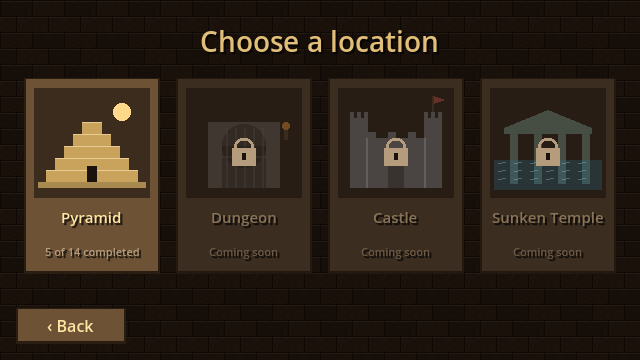
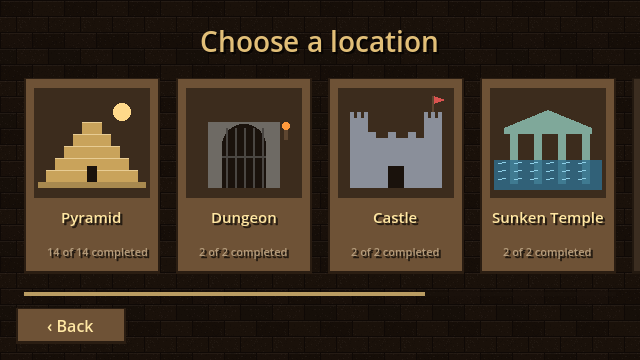
Locations: swipe-scrolled strip, add locked Ice Caves and Volcano
Claude-Session: https://claude.ai/code/session_01Grf5WdcuQYwuX1MMBXvSiC

diff --git a/README.md b/README.md
@@ -3,7 +3,7 @@
 Прототип по концепции из `docs/concept.md` и плану уровней `docs/levels-pyramid.md`.
 Пиксель-арт и звуки рисуются и синтезируются в коде, готовых ассетов нет.
 
-Заставка с логотипом → главное меню: «Играть» продолжает с первого непройденного уровня, «Уровни» — выбор локации (Пирамида — 14 уровней; в Подземелье, Замке и Затонувшем храме по 2 тестовых уровня), затем уровня, «Настройки» — язык (русский / English) и звук.
+Заставка с логотипом → главное меню: «Играть» продолжает с первого непройденного уровня, «Уровни» — выбор локации (Пирамида — 14 уровней; в Подземелье, Замке и Затонувшем храме по 2 тестовых уровня; Ледяные пещеры и Вулкан пока закрыты; ленту локаций листают пальцем), затем уровня, «Настройки» — язык (русский / English) и звук.
 Язык по умолчанию — язык системы. Переводы лежат в `scripts/i18n.gd`: ключ — русский текст, как он записан в коде и сценах.
 Пройденные уровни сохраняются (`user://progress.cfg`): следующий открыт, дальше — замок.
 Для проверки: пять касаний по заголовку «Пирамида» в выборе уровня открывают все уровни.
